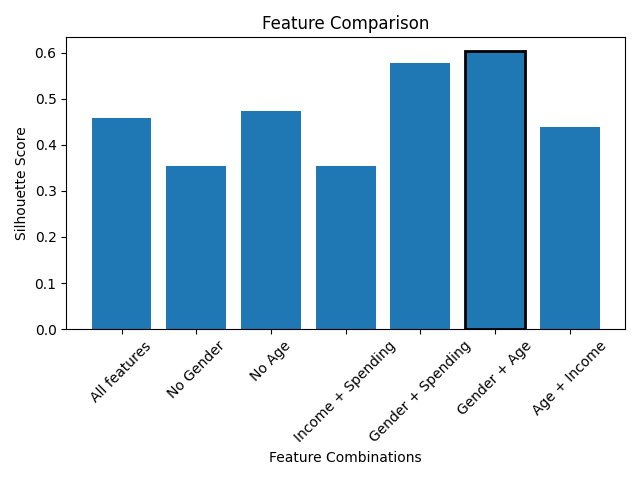
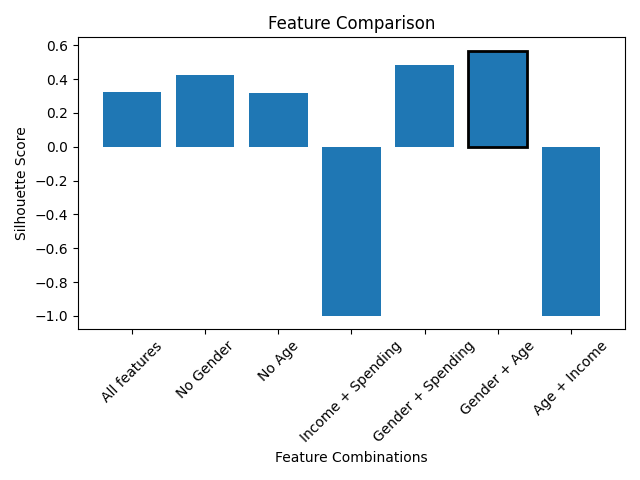
both models implemented

diff --git a/model.py b/model.py
@@ -1,9 +1,10 @@
 import pandas as pd
-import matplotlib.pyplot as plt
-
+from sklearn.preprocessing import StandardScaler
+from sklearn.cluster import KMeans
 
 # Custom modules
 from kmeans_model import run_kmeans
+from dbscan_model import run_dbscan
 from visualisation import plot_elbow, plot_clusters, plot_feature_comparison
 
 # 1. Load dataset
@@ -13,7 +14,7 @@ df = pd.read_csv("dataset/store_customers.csv")
 df = df.dropna()
 df['Gender'] = df['Gender'].map({'M': 0, 'F': 1})
 
-# 3. Define feature combinations
+# 3. Feature combinations
 feature_sets = {
     "All features": ['Gender', 'Age', 'Annual Income (k$)', 'Spending Score (1-100)'],
     "No Gender": ['Age', 'Annual Income (k$)', 'Spending Score (1-100)'],
@@ -24,70 +25,123 @@ feature_sets = {
     "Age + Income": ['Age', 'Annual Income (k$)']
 }
 
-# Store results
-results = []
+# =========================
+# 🔵 KMEANS EXPERIMENT
+# =========================
 
-from sklearn.preprocessing import StandardScaler
+kmeans_results = []
 
-# 4. Loop through feature sets
 for name, features in feature_sets.items():
     X = df[features]
 
     scaler = StandardScaler()
     X_scaled = scaler.fit_transform(X)
 
-    # Run KMeans
     labels, score = run_kmeans(X_scaled, 5)
+    kmeans_results.append((name, score))
 
-    results.append((name, score))
+kmeans_df = pd.DataFrame(kmeans_results, columns=["Features", "Silhouette Score"])
 
-# 5. Convert to DataFrame
-results_df = pd.DataFrame(results, columns=["Features", "Silhouette Score"])
+print("\nKMeans Results:")
+print(kmeans_df)
 
-print("\nFeature Comparison Table:")
-print(results_df)
+kmeans_df.to_csv("kmeans_results.csv", index=False)
+plot_feature_comparison(kmeans_df)
 
-# 6. Save results
-results_df.to_csv("results.csv", index=False)
+# Best KMeans model
+best_kmeans_row = kmeans_df.loc[kmeans_df["Silhouette Score"].idxmax()]
+best_kmeans_features = best_kmeans_row["Features"]
+best_kmeans_score = best_kmeans_row["Silhouette Score"]
 
-# 7. Plot comparison
-plot_feature_comparison(results_df)
+print("\nBest KMeans Model:")
+print(best_kmeans_row)
 
-# 8. Get BEST feature set
-best_features = results_df.loc[results_df["Silhouette Score"].idxmax(), "Features"]
+# =========================
+# 🟢 DBSCAN EXPERIMENT
+# =========================
 
-print("\nBest Feature Set:", best_features)
+dbscan_results = []
 
-# 9. Train FINAL model using best features
-final_features = feature_sets[best_features]
-X = df[final_features]
+for name, features in feature_sets.items():
+    X = df[features]
+
+    scaler = StandardScaler()
+    X_scaled = scaler.fit_transform(X)
+
+    labels, score = run_dbscan(X_scaled)
+    dbscan_results.append((name, score))
+
+dbscan_df = pd.DataFrame(dbscan_results, columns=["Features", "Silhouette Score"])
+
+print("\nDBSCAN Results:")
+print(dbscan_df)
+
+dbscan_df.to_csv("dbscan_results.csv", index=False)
+plot_feature_comparison(dbscan_df)
+
+# Best DBSCAN model
+best_dbscan_row = dbscan_df.loc[dbscan_df["Silhouette Score"].idxmax()]
+best_dbscan_features = best_dbscan_row["Features"]
+best_dbscan_score = best_dbscan_row["Silhouette Score"]
+
+print("\nBest DBSCAN Model:")
+print(best_dbscan_row)
+
+# =========================
+# 🔥 FINAL COMPARISON
+# =========================
+
+print("\nFINAL COMPARISON:")
+print("Best KMeans Score:", best_kmeans_score)
+print("Best DBSCAN Score:", best_dbscan_score)
+
+if best_kmeans_score > best_dbscan_score:
+    final_algorithm = "KMeans"
+    final_features = best_kmeans_features
+    final_score = best_kmeans_score
+else:
+    final_algorithm = "DBSCAN"
+    final_features = best_dbscan_features
+    final_score = best_dbscan_score
+
+print("\nFINAL SELECTED MODEL:")
+print("Algorithm:", final_algorithm)
+print("Features:", final_features)
+print("Score:", final_score)
+
+
+
+X = df[feature_sets[final_features]]
 
 scaler = StandardScaler()
 X_scaled = scaler.fit_transform(X)
 
-# Elbow Method (only once for final model)
-from sklearn.cluster import KMeans
 
-wcss = []
-for i in range(1, 10):
-    kmeans = KMeans(n_clusters=i, random_state=42)
-    kmeans.fit(X_scaled)
-    wcss.append(kmeans.inertia_)
+if final_algorithm == "KMeans":
+    wcss = []
+    for i in range(1, 10):
+        kmeans = KMeans(n_clusters=i, random_state=42)
+        kmeans.fit(X_scaled)
+        wcss.append(kmeans.inertia_)
 
-plot_elbow(wcss)
+    plot_elbow(wcss)
 
-# Final KMeans
-labels, score = run_kmeans(X_scaled, 5)
+
+if final_algorithm == "KMeans":
+    labels, score = run_kmeans(X_scaled, 5)
+else:
+    labels, score = run_dbscan(X_scaled)
 
 df['Cluster'] = labels
 
 print("\nFinal Model Score:", score)
 
-# Plot clusters
+
 plot_clusters(X_scaled, labels)
 
-# Cluster summary
+
 cluster_summary = df.groupby('Cluster').mean()
+
 print("\nCluster Summary:")
 print(cluster_summary)
 

diff --git a/visualisation.py b/visualisation.py
@@ -16,7 +16,7 @@ def plot_elbow(wcss):
     plt.show()
 
 def plot_feature_comparison(results_df):
-    import matplotlib.pyplot as plt
+    
 
     plt.figure()
     bars = plt.bar(results_df["Features"], results_df["Silhouette Score"])
